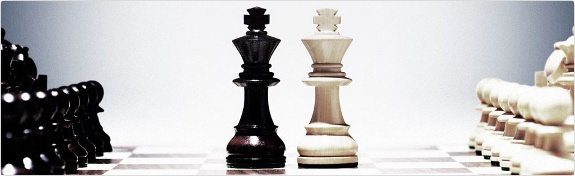
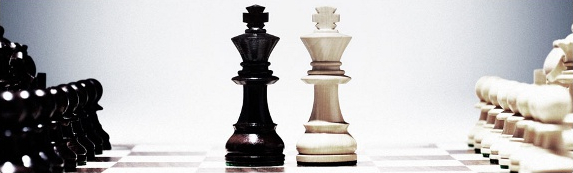
index seite fertig

diff --git a/Play/UChess beta/app/views/bootstrapTest.scala.html b/Play/UChess beta/app/views/bootstrapTest.scala.html
@@ -1,3 +1,9 @@
+@(user: service.DemoUser, env: securesocial.core.RuntimeEnvironment)
+@import securesocial.core.IdentityProvider
+@import securesocial.core.AuthenticationMethod._
+@import Http.Context.Implicit
+
+
 <!DOCTYPE html>
 <html lang="de">
     <head>
@@ -68,33 +74,26 @@ horizontal standard example bootstrap menu navbar-header
 
         </div><!-- /.container -->
         
-
-<!--
-=========================================================================================
-=========================================================================================
-=========================================================================================
-vertical bootstrap menu-->
-<nav class="navbar navbar-inverse" role="navigation">
-  <!-- Brand and toggle get grouped for better mobile display -->
-  <div class="navbar-header">
-    <button type="button" class="navbar-toggle" data-toggle="collapse" data-target=".navbar-ex1-collapse">
-      <span class="sr-only">Toggle navigation</span>
-      <span class="icon-bar"></span>
-      <span class="icon-bar"></span>
-      <span class="icon-bar"></span>
-    </button>
-    <a class="navbar-brand" href="#">Brand</a>
-  </div>
-
-  <!-- Collect the nav links, forms, and other content for toggling -->
-  <div class="collapse navbar-collapse navbar-ex1-collapse">
-    <ul class="nav navbar-nav">
-      <li class="active"><a href="#">Link</a></li>
-      <li><a href="#">Link</a></li>
-    </ul>
-  </div><!-- /.navbar-collapse -->
-</nav>
-
+    <div class="contentPart">
+        <nav class="navbar navbar-inverse" role="navigation">
+          <!-- Brand and toggle get grouped for better mobile display -->
+          
+          <div class="navbar-header">
+            <button type="button" class="navbar-toggle" data-toggle="collapse" data-target=".navbar-ex1-collapse">
+            </button>
+          </div>
+          <!-- Collect the nav links, forms, and other content for toggling -->
+          <div class="collapse navbar-collapse navbar-ex1-collapse">
+            <ul class="nav navbar-nav">
+                <li><a class="navLinks" href="#">Home</a></li>
+                <li><a class="navLinks" href="#">Start a new Game</a></li>
+                <li><a class="navLinks" href="http://www.chessmail.de/pages/fiderules.html">Show Chess Rules</a></li>
+                <li><a class="navLinks" href="#">About this Website</a></li>
+                <li><a class="navLinks" href="@securesocial.controllers.routes.LoginPage.logout()">Log out</a></li>
+            </ul>
+          </div><!-- /.navbar-collapse -->
+        </nav>
+    </div>
 <!--
 =========================================================================================
 =========================================================================================

diff --git a/Play/UChess beta/app/assets/stylesheets/main.less b/Play/UChess beta/app/assets/stylesheets/main.less
@@ -2,19 +2,28 @@
 //@breite:                1200px;
 @breite:                100%;
 @marg:                  20%;
-@headerHeight:          250px;
+@headerHeight:          300px;
 
 //element-specific variables:
 @panelHeight:           4%;
 @navElement_minWidth:   100px;
 @navElement_maxWidth:   300px;
+@navFontSize:           24pt;
+@navColor:              green;
+@navFont:               "Times New Roman", Times, serif;
+@borderColor:           #3A0000;
 
 #bootstrap-overrides body{
     margin:             10%;
 }
 
+body{
+    min-height:         100%;
+    border-top:         none;
+}
 
 .page{
+    //border:             5px black solid;
     min-width:          @breite;
     max-width:          @breite;
     position:           relative;
@@ -33,7 +42,7 @@
 
 .contentPart{
     position:           relative;
-    border:             1px solid red;
+    border-top:         8px solid @borderColor;
     margin-top:         0%;   
 }
 
@@ -67,11 +76,31 @@
   }
 }
 .navbar {
-	max-width:300px;
-	margin-right: 0;
-	margin-left: 0;
+    border-radius:      0px;
+    min-width:          250px;
+	max-width:          400px;
+	min-height:         700px;
+	//overflow: visible;
+	margin-right:       0;
+	margin-left:        0%;
 }	
 
+
+.navbar-brand{
+    margin-top:         400px;
+    margin-bottom:      20px;
+
+}
+
+.navLinks {
+	margin-left:        20px;
+	margin-right:       20px;
+	margin-top:         20px;
+	margin-bottom:      20px;
+	font-size:          @navFontSize;
+	color:              @navColor;	   
+    font-family:        @navFont;    
+}
 
 .navbar-nav,
 .navbar-nav > li,
@@ -80,7 +109,6 @@
 .navbar-header
 {
     float:                  none !important;
-
 }
 
 /*

diff --git a/Play/UChess beta/app/controllers/Application.java b/Play/UChess beta/app/controllers/Application.java
@@ -143,7 +143,8 @@ public class Application extends Controller {
       
     @SecuredAction      
     public Result bootstrapTest(){   
-        return ok(bootstrapTest.render());
+        DemoUser user = (DemoUser) ctx().args.get(SecureSocial.USER_KEY);
+        return ok(bootstrapTest.render(user, SecureSocial.env()));        
     }
             
       
